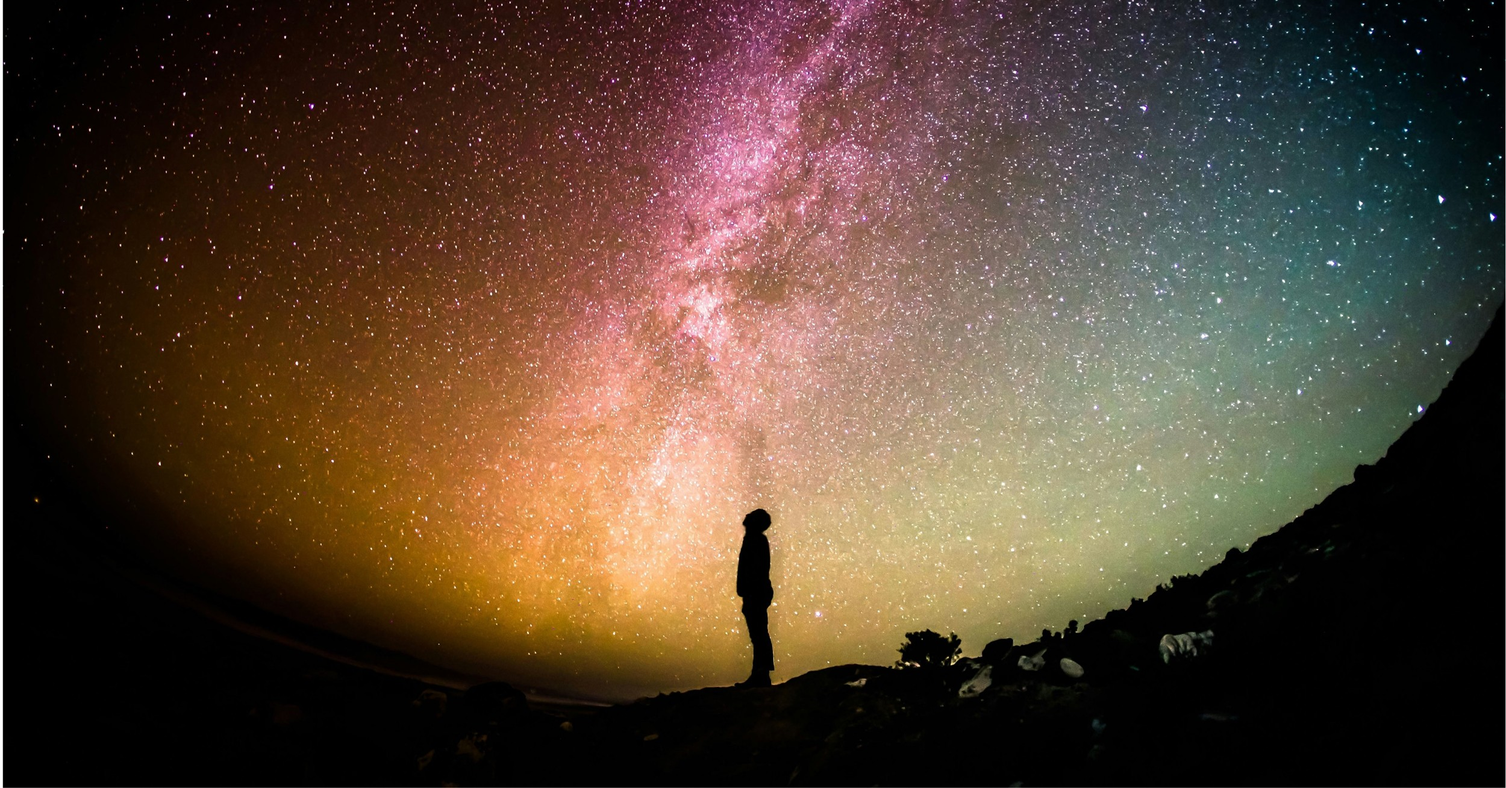
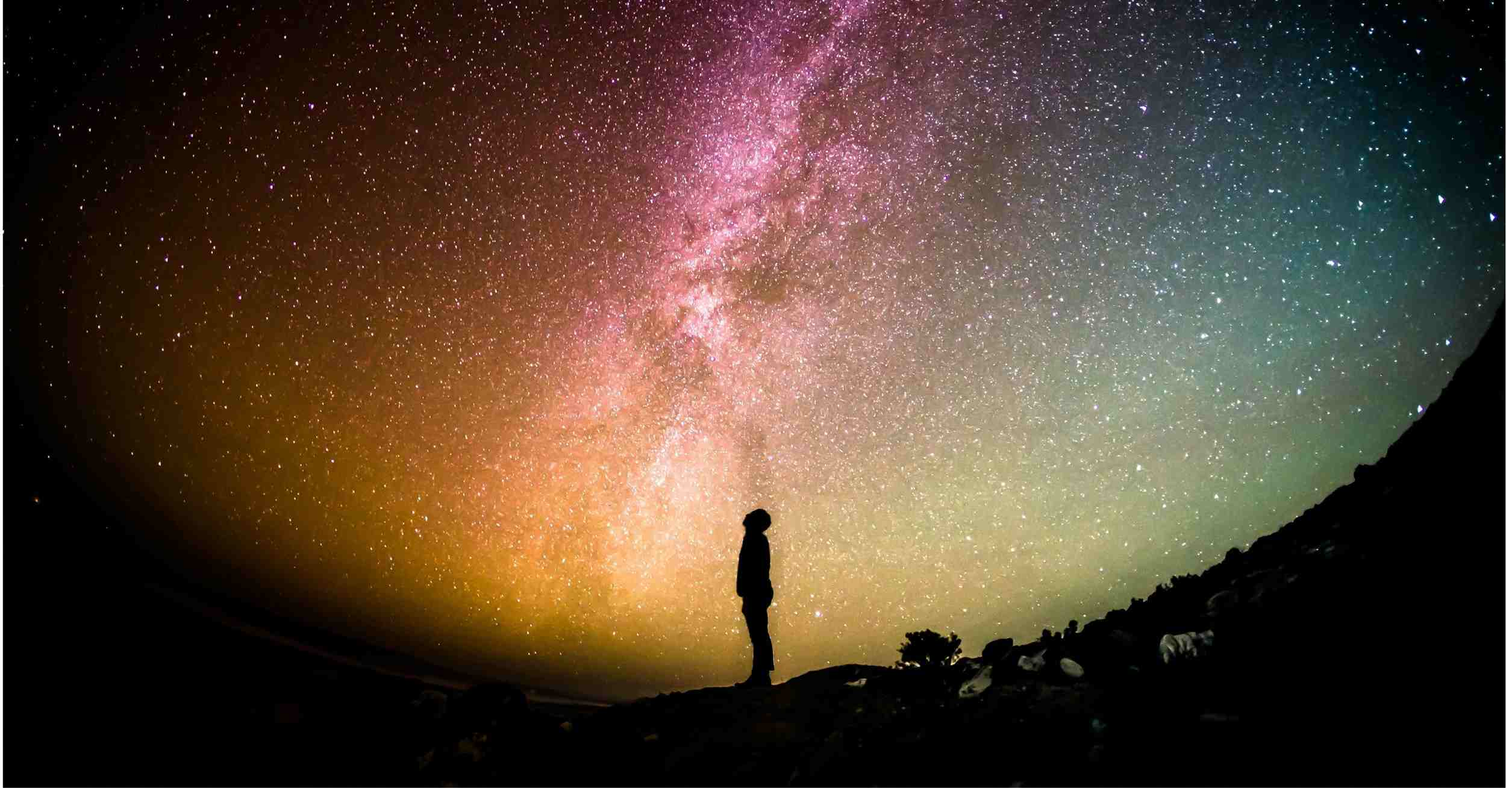
Sprint 6: SEO-optimized blog images + YouTube video on business coaching page
T6.1: Replace 7 blog banner images with compressed SEO-named versions
- New images ~75% smaller (147KB vs 193-708KB)
- Filenames now match article slugs for SEO
- Updated all src and og:image references across 9 HTML files

T6.2: Add responsive YouTube embed to business coaching page
- Video: Enlightened Entrepreneur Framework (Bua0OB1nmvo)
- Placed after FIRE Formula letters in Framework section
- Privacy-enhanced embed (youtube-nocookie.com), 16:9 responsive

Changed region(s): [[0.468, 0.0917, 0.5928, 0.2141], [0.4992, 0.0, 0.5928, 0.0306]]

diff --git a/blog/index.html b/blog/index.html
@@ -71,7 +71,7 @@
       <div class="container">
 
         <div class="blog-article-card">
-          <a href="/blog/enlightened-entrepreneurship-alignment-before-action/"><img src="/assets/images/blog/enlightened-entrepreneurship.jpg" alt="Enlightened Entrepreneurship" class="blog-article-card-image" loading="lazy"></a>
+          <a href="/blog/enlightened-entrepreneurship-alignment-before-action/"><img src="/assets/images/blog/enlightened-entrepreneurship-alignment-before-action.jpg" alt="Enlightened Entrepreneurship" class="blog-article-card-image" loading="lazy"></a>
           <span class="label-gold">Conscious Entrepreneurship</span>
           <p class="blog-article-meta">May 1, 2026</p>
           <h2><a href="/blog/enlightened-entrepreneurship-alignment-before-action/">Enlightened Entrepreneurship: Why Alignment Comes Before Action</a></h2>
@@ -79,7 +79,7 @@
         </div>
 
         <div class="blog-article-card">
-          <a href="/blog/networking-conversation-follow-up/"><img src="/assets/images/blog/networking-follow-up.jpg" alt="The Networking Conversation" class="blog-article-card-image" loading="lazy"></a>
+          <a href="/blog/networking-conversation-follow-up/"><img src="/assets/images/blog/networking-follow-up-conscious-entrepreneurs.jpg" alt="The Networking Conversation" class="blog-article-card-image" loading="lazy"></a>
           <span class="label-gold">Conscious Entrepreneurship</span>
           <p class="blog-article-meta">April 29, 2026</p>
           <h2><a href="/blog/networking-conversation-follow-up/">The Networking Conversation: Why Follow-Up Feels Pushy (And How to Fix It)</a></h2>
@@ -87,7 +87,7 @@
         </div>
 
         <div class="blog-article-card">
-          <a href="/blog/build-prosperity-consciousness/"><img src="/assets/images/blog/prosperity-consciousness.jpg" alt="How to Build a Prosperity Consciousness" class="blog-article-card-image" loading="lazy"></a>
+          <a href="/blog/build-prosperity-consciousness/"><img src="/assets/images/blog/prosperity-consciousness-spiritual-entrepreneurs.jpg" alt="How to Build a Prosperity Consciousness" class="blog-article-card-image" loading="lazy"></a>
           <span class="label-gold">Conscious Entrepreneurship</span>
           <p class="blog-article-meta">April 27, 2026</p>
           <h2><a href="/blog/build-prosperity-consciousness/">How to Build a Prosperity Consciousness (It&rsquo;s Not What You Think)</a></h2>
@@ -95,7 +95,7 @@
         </div>
 
         <div class="blog-article-card">
-          <a href="/blog/mastering-meditation-with-frequencies/"><img src="/assets/images/blog/mastering-meditation-frequencies.jpg" alt="Mastering Meditation with Frequencies" class="blog-article-card-image" loading="lazy"></a>
+          <a href="/blog/mastering-meditation-with-frequencies/"><img src="/assets/images/blog/meditation-sound-frequencies-transformation.jpg" alt="Mastering Meditation with Frequencies" class="blog-article-card-image" loading="lazy"></a>
           <span class="label-gold">Meditation &amp; Spiritual Practice</span>
           <p class="blog-article-meta">April 25, 2026</p>
           <h2><a href="/blog/mastering-meditation-with-frequencies/">Mastering Meditation with Frequencies: What Changed Everything for Me</a></h2>
@@ -103,7 +103,7 @@
         </div>
 
         <div class="blog-article-card">
-          <a href="/blog/7-success-saboteurs/"><img src="/assets/images/blog/7-saboteurs.jpg" alt="The 7 Success Saboteurs" class="blog-article-card-image" loading="lazy"></a>
+          <a href="/blog/7-success-saboteurs/"><img src="/assets/images/blog/success-saboteurs-entrepreneurs-stuck.jpg" alt="The 7 Success Saboteurs" class="blog-article-card-image" loading="lazy"></a>
           <span class="label-gold">Conscious Entrepreneurship</span>
           <p class="blog-article-meta">April 23, 2026</p>
           <h2><a href="/blog/7-success-saboteurs/">The 7 Success Saboteurs &mdash; Why Smart People Stay Stuck</a></h2>
@@ -119,7 +119,7 @@
         </div>
 
         <div class="blog-article-card">
-          <a href="/blog/5-shifts-conscious-entrepreneur/"><img src="/assets/images/blog/5-shifts.jpg" alt="The 5 Shifts Every Conscious Entrepreneur" class="blog-article-card-image" loading="lazy"></a>
+          <a href="/blog/5-shifts-conscious-entrepreneur/"><img src="/assets/images/blog/five-shifts-conscious-entrepreneurs.jpg" alt="The 5 Shifts Every Conscious Entrepreneur" class="blog-article-card-image" loading="lazy"></a>
           <span class="label-gold">Conscious Entrepreneurship</span>
           <p class="blog-article-meta">April 19, 2026</p>
           <h2><a href="/blog/5-shifts-conscious-entrepreneur/">The 5 Shifts Every Conscious Entrepreneur Needs Right Now</a></h2>
@@ -127,7 +127,7 @@
         </div>
 
         <div class="blog-article-card">
-          <a href="/blog/fire-formula-break-free-from-stuck/"><img src="/assets/images/blog/fire-formula.jpg" alt="The FIRE Formula" class="blog-article-card-image" loading="lazy"></a>
+          <a href="/blog/fire-formula-break-free-from-stuck/"><img src="/assets/images/blog/fire-formula-break-free-stuck.jpg" alt="The FIRE Formula" class="blog-article-card-image" loading="lazy"></a>
           <span class="label-gold">Conscious Entrepreneurship</span>
           <p class="blog-article-meta">April 17, 2026</p>
           <h2><a href="/blog/fire-formula-break-free-from-stuck/">The FIRE Formula: How to Break Free from What's Keeping You Stuck</a></h2>

diff --git a/business-coaching/index.html b/business-coaching/index.html
@@ -106,6 +106,13 @@
             <p>Action becomes less effortful when the first three elements are coherent. Build operational habits that hold.</p>
           </div>
         </div>
+        <div class="video-embed-wrapper">
+          <iframe src="https://www.youtube-nocookie.com/embed/Bua0OB1nmvo"
+                  title="The Enlightened Entrepreneur Framework — Carol Merlo"
+                  allow="accelerometer; autoplay; clipboard-write; encrypted-media; gyroscope; picture-in-picture"
+                  allowfullscreen
+                  loading="lazy"></iframe>
+        </div>
       </div>
     </section>
 

diff --git a/blog/networking-conversation-follow-up/index.html b/blog/networking-conversation-follow-up/index.html
@@ -70,7 +70,7 @@
 
         <!-- Article Image -->
         <figure class="blog-article-image">
-          <img src="/assets/images/blog/networking-follow-up.jpg" alt="The Networking Conversation — why follow-up feels pushy and how to fix it" loading="lazy">
+          <img src="/assets/images/blog/networking-follow-up-conscious-entrepreneurs.jpg" alt="The Networking Conversation — why follow-up feels pushy and how to fix it" loading="lazy">
         </figure>
 
         <!-- Article Body -->

diff --git a/blog/enlightened-entrepreneurship-alignment-before-action/index.html b/blog/enlightened-entrepreneurship-alignment-before-action/index.html
@@ -70,7 +70,7 @@
 
         <!-- Article Image -->
         <figure class="blog-article-image">
-          <img src="/assets/images/blog/enlightened-entrepreneurship.jpg" alt="Enlightened Entrepreneurship — why alignment comes before action" loading="lazy">
+          <img src="/assets/images/blog/enlightened-entrepreneurship-alignment-before-action.jpg" alt="Enlightened Entrepreneurship — why alignment comes before action" loading="lazy">
         </figure>
 
         <!-- Article Body -->

diff --git a/assets/css/pages.css b/assets/css/pages.css
@@ -542,6 +542,25 @@
   }
 }
 
+.video-embed-wrapper {
+  position: relative;
+  padding-bottom: 56.25%; /* 16:9 */
+  height: 0;
+  overflow: hidden;
+  max-width: 780px;
+  margin: var(--space-md) auto 0;
+  border-radius: var(--border-radius);
+}
+
+.video-embed-wrapper iframe {
+  position: absolute;
+  top: 0;
+  left: 0;
+  width: 100%;
+  height: 100%;
+  border: 0;
+}
+
 @media (max-width: 768px) {
   .bc-book-section {
     grid-template-columns: 1fr;

diff --git a/blog/fire-formula-break-free-from-stuck/index.html b/blog/fire-formula-break-free-from-stuck/index.html
@@ -70,7 +70,7 @@
 
         <!-- Article Image -->
         <figure class="blog-article-image">
-          <img src="/assets/images/blog/fire-formula.jpg" alt="The FIRE Formula — breaking free from what keeps you stuck" loading="lazy">
+          <img src="/assets/images/blog/fire-formula-break-free-stuck.jpg" alt="The FIRE Formula — breaking free from what keeps you stuck" loading="lazy">
         </figure>
 
         <!-- Article Body -->

diff --git a/blog/7-success-saboteurs/index.html b/blog/7-success-saboteurs/index.html
@@ -70,7 +70,7 @@
 
         <!-- Article Image -->
         <figure class="blog-article-image">
-          <img src="/assets/images/blog/7-saboteurs.jpg" alt="The 7 Success Saboteurs — why smart people stay stuck" loading="lazy">
+          <img src="/assets/images/blog/success-saboteurs-entrepreneurs-stuck.jpg" alt="The 7 Success Saboteurs — why smart people stay stuck" loading="lazy">
         </figure>
 
         <!-- Article Body -->

diff --git a/blog/5-shifts-conscious-entrepreneur/index.html b/blog/5-shifts-conscious-entrepreneur/index.html
@@ -70,7 +70,7 @@
 
         <!-- Article Image -->
         <figure class="blog-article-image">
-          <img src="/assets/images/blog/5-shifts.jpg" alt="The 5 Shifts Every Conscious Entrepreneur Needs Right Now" loading="lazy">
+          <img src="/assets/images/blog/five-shifts-conscious-entrepreneurs.jpg" alt="The 5 Shifts Every Conscious Entrepreneur Needs Right Now" loading="lazy">
         </figure>
 
         <!-- Article Body -->

diff --git a/blog/build-prosperity-consciousness/index.html b/blog/build-prosperity-consciousness/index.html
@@ -70,7 +70,7 @@
 
         <!-- Article Image -->
         <figure class="blog-article-image">
-          <img src="/assets/images/blog/prosperity-consciousness.jpg" alt="How to Build a Prosperity Consciousness" loading="lazy">
+          <img src="/assets/images/blog/prosperity-consciousness-spiritual-entrepreneurs.jpg" alt="How to Build a Prosperity Consciousness" loading="lazy">
         </figure>
 
         <!-- Article Body -->

diff --git a/blog/mastering-meditation-with-frequencies/index.html b/blog/mastering-meditation-with-frequencies/index.html
@@ -70,7 +70,7 @@
 
         <!-- Article Image -->
         <figure class="blog-article-image">
-          <img src="/assets/images/blog/mastering-meditation-frequencies.jpg" alt="Mastering Meditation with Frequencies" loading="lazy">
+          <img src="/assets/images/blog/meditation-sound-frequencies-transformation.jpg" alt="Mastering Meditation with Frequencies" loading="lazy">
         </figure>
 
         <!-- Article Body -->

diff --git a/.paircoder/tasks/T6.1.task.md b/.paircoder/tasks/T6.1.task.md
@@ -1,0 +1,53 @@
+---
+id: T6.1
+title: Replace blog images with optimized SEO-named versions
+plan: plan-2026-04-sprint-6-images-video
+type: feature
+priority: P0
+complexity: 30
+status: in_progress
+sprint: null
+tags: []
+depends_on: []
+---
+
+# Objective
+
+Copy 8 optimized, SEO-named JPGs from Carol's compressed folder into assets/images/blog/
+and update every HTML src and og:image reference to use the new filenames.
+
+# Implementation Plan
+
+Source: `C:\Carol Projects\Social Media posts and text\blog post content\Blog Post Images\compressed files\`
+
+Filename mapping:
+- fire-formula.jpg → fire-formula-break-free-stuck.jpg
+- 5-shifts.jpg → five-shifts-conscious-entrepreneurs.jpg
+- 7-saboteurs.jpg → success-saboteurs-entrepreneurs-stuck.jpg
+- mastering-meditation-frequencies.jpg → meditation-sound-frequencies-transformation.jpg
+- networking-follow-up.jpg → networking-follow-up-conscious-entrepreneurs.jpg
+- prosperity-consciousness.jpg → prosperity-consciousness-spiritual-entrepreneurs.jpg
+- enlightened-entrepreneurship.jpg → enlightened-entrepreneurship-alignment-before-action.jpg
+- taking-mystery-out-of-meditation.jpg → taking-mystery-out-of-meditation.jpg (unchanged)
+
+Files to update:
+- blog/index.html
+- blog/fire-formula-break-free-from-stuck/index.html
+- blog/5-shifts-conscious-entrepreneur/index.html
+- blog/7-success-saboteurs/index.html
+- blog/mastering-meditation-with-frequencies/index.html
+- blog/networking-conversation-follow-up/index.html
+- blog/build-prosperity-consciousness/index.html
+- blog/enlightened-entrepreneurship-alignment-before-action/index.html
+- blog/taking-the-mystery-out-of-meditation/index.html
+
+# Acceptance Criteria
+
+- [ ] All 8 new image files present in assets/images/blog/
+- [ ] No HTML file references old filenames
+- [ ] blog/index.html thumbnails use new filenames
+- [ ] Article og:image meta tags updated
+
+# Verification
+
+- grep old filenames across site HTML — should return zero matches

diff --git a/.paircoder/context/state.md b/.paircoder/context/state.md
@@ -1,24 +1,33 @@
 # Current State
 
-> Last updated: 2026-04-12 (T3.1 complete)
+> Last updated: 2026-04-13 (Sprint 6 planning)
 
 ## Active Plan
 
-**Plan:** plan-2026-04-sprint-3-blog
-**Title:** Sprint 3: Blog Articles
+**Plan:** plan-2026-04-sprint-6-images-video
+**Title:** Sprint 6: Blog image SEO rename + business page video
 **Status:** Planning
-**Current Sprint:** Sprint 3
-**Branch:** sprint-3
+**Current Sprint:** Sprint 6
+**Branch:** sprint-6
+
+**Previous Plan:** plan-2026-04-sprint-3-blog (Sprint 3 — all 8 blog articles done ✓)
 
 **Previous Plan:** plan-2026-04-sprint-2-homepage-enhancements (Sprint 2 — all 5 tasks done ✓)
 
 ## Current Focus
 
-Sprint 3: Write 8 blog articles based on Carol's source documents in `C:/Carol Projects/Social Media posts and text/blog post content/`. Write one article at a time, Carol reviews and edits, then publish. Blog pages are static HTML matching the existing site design.
+Sprint 6: Replace blog banner images with optimized SEO-named versions; add YouTube video embed to business coaching page under the Enlightened Entrepreneur Framework section.
 
 ## Task Status
 
-### Sprint 3 — Blog Articles
+### Sprint 6 — Images & Video
+
+| ID | Title | Status | Priority |
+|----|-------|--------|----------|
+| T6.1 | Replace blog images with optimized SEO-named versions | pending | P0 |
+| T6.2 | Embed YouTube video on business coaching page | pending | P0 |
+
+### Sprint 3 — Blog Articles (COMPLETE ✓)
 
 | ID | Title | Status | Priority |
 |----|-------|--------|----------|
